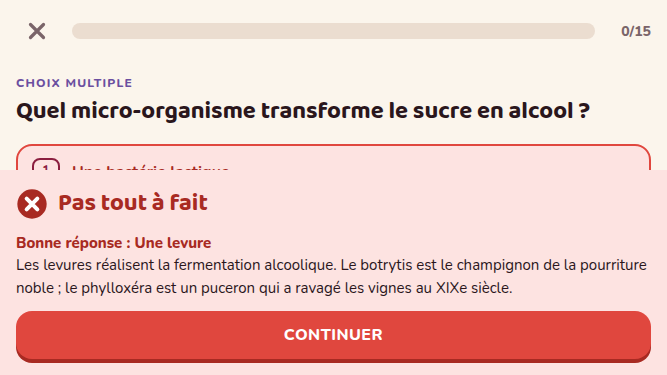
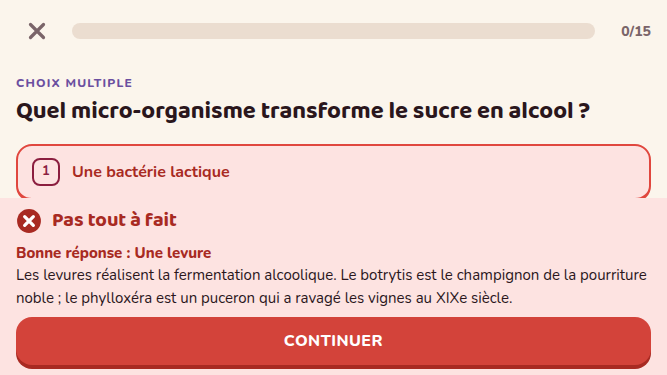
A-15 : téléphone en paysage, la carte tient dans l'écran
Sur un écran bas (≤ 540 px), la carte ne dépasse plus la hauteur utile
(min. 220 px), la bulle d'aide est masquée et la feuille de correction est
compactée (47 % de l'écran au lieu de 55 %). Portrait inchangé.

Claude-Session: https://claude.ai/code/session_01AWT2yThQPxsBnWcfbm4fRw

diff --git a/index.html b/index.html
@@ -272,6 +272,7 @@ main{padding-block:20px 110px}
 .sheet.ko h3{color:var(--bad-ink)}
 .sheet h3 svg{width:32px;height:32px}
 .sheet .expl{font-size:15px;max-height:32vh;overflow-y:auto}
+@media (max-height:540px){.sheet .wrap{padding-block:10px 10px;gap:8px}.sheet h3{font-size:20px}.sheet h3 svg{width:26px;height:26px}.sheet .expl{max-height:24vh}}
 .sheet .expl b{font-weight:800}
 .sheet .answer{font-weight:800;color:var(--bad-ink)}
 
@@ -334,6 +335,8 @@ main{padding-block:20px 110px}
 
 /* ---------- carte ---------- */
 .map-box{position:relative;background:var(--sea);border:2px solid var(--line);border-radius:20px;overflow:hidden;aspect-ratio:1/1;max-width:100%;touch-action:none;user-select:none}
+/* écran bas (téléphone en paysage) : la carte ne dépasse pas la hauteur utile, pour laisser voir et atteindre « Valider » */
+@media (max-height:540px){.map-box{max-height:max(220px,calc(100dvh - 170px));margin-inline:auto}.map-hint{display:none}}
 .map-box svg{width:100%;height:100%;display:block;cursor:crosshair}
 .map-box .dep{fill:var(--land);stroke:color-mix(in srgb,var(--muted) 35%,transparent);stroke-width:.6;vector-effect:non-scaling-stroke}
 .map-box .outline{fill:none;stroke:var(--muted);stroke-width:1.4;vector-effect:non-scaling-stroke}
